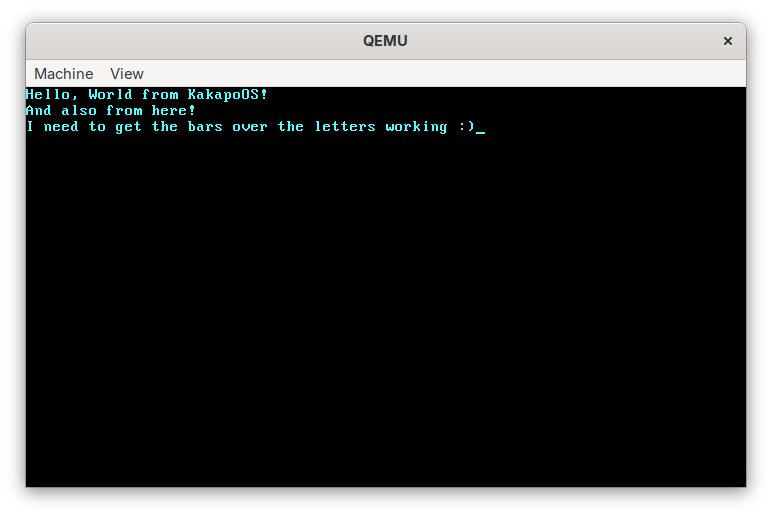
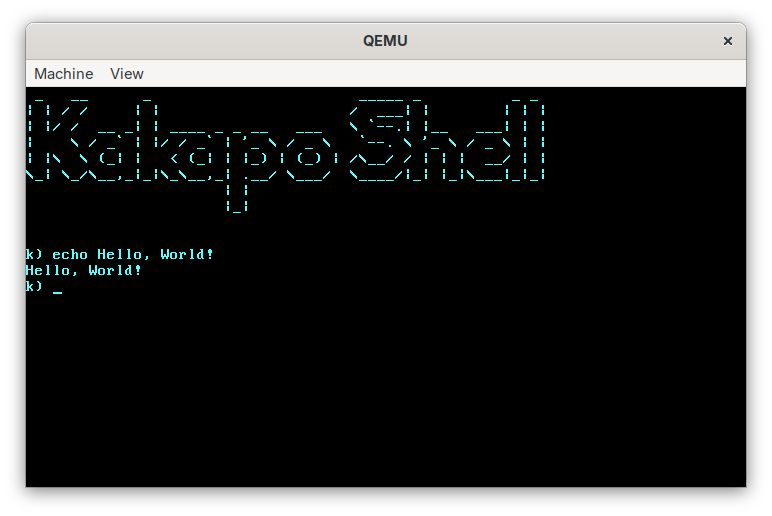
Start work on shell

diff --git a/kernel/KakapoShell.hpp b/kernel/KakapoShell.hpp
@@ -1,0 +1,116 @@
+#pragma once
+
+#include "keyboard.hpp"
+char SHIFT_TABLE[128];
+
+void init_shift_table()
+{
+    for(int i = 0; i < 128; i++) {
+        SHIFT_TABLE[i] = i;
+    }
+    const char keys[] = "`1234567890-=qwertyuiop[]\\asdfghjkl;'zxcvbnm,./";
+    const char vals[] = "~!@#$%^&*()_+QWERTYUIOP{}|ASDFGHJKL:\"ZXCVBNM<>?";
+    static_assert(sizeof(keys) == sizeof(vals), "keys and vals should be same length.");
+    for(unsigned int i = 0; i < sizeof(keys) - 1; i++) {
+        SHIFT_TABLE[(int)keys[i]] = vals[i];
+    }
+}
+
+const char GREETING[] =
+" _   __      _                       _____ _          _ _\n"
+"| | / /     | |                     /  ___| |        | | |\n"
+"| |/ /  __ _| | ____ _ _ __   ___   \\ `--.| |__   ___| | |\n"
+"|    \\ / _` | |/ / _` | '_ \\ / _ \\   `--. \\ '_ \\ / _ \\ | |\n"
+"| |\\  \\ (_| |   < (_| | |_) | (_) | /\\__/ / | | |  __/ | |\n"
+"\\_| \\_/\\__,_|_|\\_\\__,_| .__/ \\___/  \\____/|_| |_|\\___|_|_|\n"
+"                      | |\n"
+"                      |_|\n"
+"\n";
+class KakapoShell {
+    private:
+        Terminal *terminal;
+        char commandBuffer[256];
+        size_t commandBufferIndex = 0;
+        bool shiftDown = false;
+    public:
+        constexpr KakapoShell(Terminal *terminal)
+        {
+            this->terminal = terminal;
+            terminal->updateCursorRow(0);
+            terminal->updateCursorColumn(0);
+            terminal->clearScreen();
+            terminal->writeString(GREETING);
+            prompt();
+        }
+        void prompt()
+        {
+            terminal->updateCursorColumn(0);
+            terminal->updateCursorRow(terminal->getCursorRow() + 1);
+            terminal->writeString("k) ");
+            terminal->updateCursorColumn(sizeof("k) ") - 1);
+        }
+        void onInput(keyboard_input input)
+        {
+            if(input.is_ascii) {
+                if(input.pressed == PRESSED) {
+                    onAsciiPressed(shiftDown ? SHIFT_TABLE[input.ascii] : input.ascii);
+                    return;
+                }
+            } else {
+                if(input.isShift()) {
+                    shiftDown = !input.pressed;
+                }
+            }
+        }
+        void printLine(const char *s) {
+            terminal->updateCursorColumn(0);
+            terminal->updateCursorRow(terminal->getCursorRow() + 1);
+            terminal->writeString(s);
+            prompt();
+        }
+        size_t parseCommandWord(const char *s) {
+            size_t len = 0;
+            while(*s && (*s != ' ')) {
+                s++;
+                len++;
+            }
+            return len;
+        }
+        void doCommand(const char *s) {
+            size_t commandWordLen = parseCommandWord(s);
+            if(commandWordLen == 4) {
+                // assume echo, for now
+                s += 4;
+                while(*s && (*s == ' ')) s++;
+                printLine(s);
+            }
+        }
+        void onAsciiPressed(char c) {
+            char printCharBuff[2];
+            switch(c) {
+                case '\b':
+                    if(commandBufferIndex > 0) {
+                        commandBufferIndex--;
+                    }
+                    printCharBuff[0] = ' ';
+                    printCharBuff[1] = '\0';
+
+                    terminal->updateCursorColumn(terminal->getCursorColumn() - 1);
+                    terminal->writeString(printCharBuff);
+                    terminal->updateCursorColumn(terminal->getCursorColumn() - 1);
+                    break;
+                case '\n':
+                    commandBuffer[commandBufferIndex] = '\0';
+                    doCommand(commandBuffer);
+                    commandBufferIndex = 0;
+                    break;
+                default:
+                    commandBuffer[commandBufferIndex++] = c;
+                    printCharBuff[0] = c;
+                    printCharBuff[1] = '\0';
+                    terminal->writeString(printCharBuff);
+                    terminal->updateCursorColumn(terminal->getCursorColumn());
+                    break;
+            }
+        }
+};

diff --git a/kernel/kernel.cpp b/kernel/kernel.cpp
@@ -6,6 +6,7 @@
 #include "keyboard.hpp"
 #include "halt.h"
 #include "power.h"
+#include "KakapoShell.hpp"
 
 /* Check if the compiler thinks you are targeting the wrong operating system. */
 #if defined(__linux__)
@@ -19,20 +20,6 @@
 
 #define VGA_MEMORY  0xB8000
 
-char SHIFT_TABLE[128];
-
-void init_shift_table()
-{
-    for(int i = 0; i < 128; i++) {
-        SHIFT_TABLE[i] = i;
-    }
-    const char keys[] = "`1234567890-=qwertyuiop[]\\asdfghjkl;'zxcvbnm,./";
-    const char vals[] = "~!@#$%^&*()_+QWERTYUIOP{}|ASDFGHJKL:\"ZXCVBNM<>?";
-    static_assert(sizeof(keys) == sizeof(vals), "keys and vals should be same length.");
-    for(unsigned int i = 0; i < sizeof(keys) - 1; i++) {
-        SHIFT_TABLE[(int)keys[i]] = vals[i];
-    }
-}
 
 extern "C" void kernel_main(void)
 {
@@ -41,43 +28,11 @@ extern "C" void kernel_main(void)
     const char greeting[] = "Hello, World from KakapoOS!\nAnd also from here!\nI need to get the bars over the letters working :)";
     qemuvga.writeString(greeting);
     qemuvga.update_cursor();
+    KakapoShell shell(&qemuvga);
 
-    bool shiftDown = false;
     while(1) {
         keyboard_input in = next_input();
-        if(in.is_ascii) {
-            if(in.ascii == 0x1B) {
-                shutdown();
-            }
-            char ascii = shiftDown ? SHIFT_TABLE[(int)in.ascii] : in.ascii;
-            qemuvga.putchar(ascii);
-            qemuvga.update_cursor();
-        } else {
-            if(in.isShift()) {
-                if(in.pressed == PRESSED) {
-                    shiftDown = true;
-                } else {
-                    shiftDown = false;
-                }
-            } else {
-                switch(in.special_value) {
-                    case keyboard_special_type::CURSOR_UP:
-                        qemuvga.updateCursorRow(qemuvga.row - 1);
-                        break;
-                    case keyboard_special_type::CURSOR_DOWN:
-                        qemuvga.updateCursorRow(qemuvga.row + 1);
-                        break;
-                    case keyboard_special_type::CURSOR_LEFT:
-                        qemuvga.updateCursorColumn(qemuvga.column - 1);
-                        break;
-                    case keyboard_special_type::CURSOR_RIGHT:
-                        qemuvga.updateCursorColumn(qemuvga.column + 1);
-                        break;
-                    default:
-                        break;
-                }
-            }
-        }
+        shell.onInput(in);
     }
 }
 

diff --git a/kernel/vga.hpp b/kernel/vga.hpp
@@ -48,6 +48,10 @@ class VgaTerminal : public Terminal {
             row = 0;
             column = 0;
             color = vga_entry_color(VGA_COLOR_LIGHT_CYAN, VGA_COLOR_BLACK);
+            clearScreen();
+        }
+        void clearScreen()
+        {
             for (size_t y = 0; y < VGA_HEIGHT; y++) {
                 for (size_t x = 0; x < VGA_WIDTH; x++) {
                     const size_t index = y * VGA_WIDTH + x;
@@ -129,6 +133,14 @@ class VgaTerminal : public Terminal {
             outb(0x3D5, (uint8_t) (pos & 0xFF));
             outb(0x3D4, 0x0E);
             outb(0x3D5, (uint8_t) ((pos >> 8) & 0xFF));
+        }
+        unsigned int getCursorRow()
+        {
+            return row;
+        }
+        unsigned int getCursorColumn()
+        {
+            return column;
         }
 };
 #endif // MYOS_VGA_DEV_H

diff --git a/kernel/keyboard.hpp b/kernel/keyboard.hpp
@@ -83,7 +83,7 @@ inline IncomingScancode keyboard_Scancode()
  * return that ASCII value.
  * Else, return \0
  */
-char Scancode_to_ascii(Scancode s)
+unsigned char Scancode_to_ascii(Scancode s)
 {
     switch(s) {
         case Scancode::ESC_PRESSED:
@@ -240,12 +240,12 @@ class keyboard_input {
         bool is_ascii:1;
         press_state pressed:1;
         union {
-            char ascii;
+            unsigned char ascii;
             keyboard_special_type special_value;
         };
         keyboard_input(Scancode s)
         {
-            char ascii = Scancode_to_ascii(s);
+            unsigned char ascii = Scancode_to_ascii(s);
             is_ascii = !!ascii;
             pressed = get_press_state(s);
             if(ascii) {

diff --git a/kernel/Terminal.hpp b/kernel/Terminal.hpp
@@ -5,4 +5,7 @@ class Terminal {
         virtual void writeString(const char *s) = 0;
         virtual void updateCursorRow(unsigned int row) = 0;
         virtual void updateCursorColumn(unsigned int col) = 0;
+        virtual unsigned int getCursorRow();
+        virtual unsigned int getCursorColumn();
+        virtual void clearScreen() = 0;
 };
